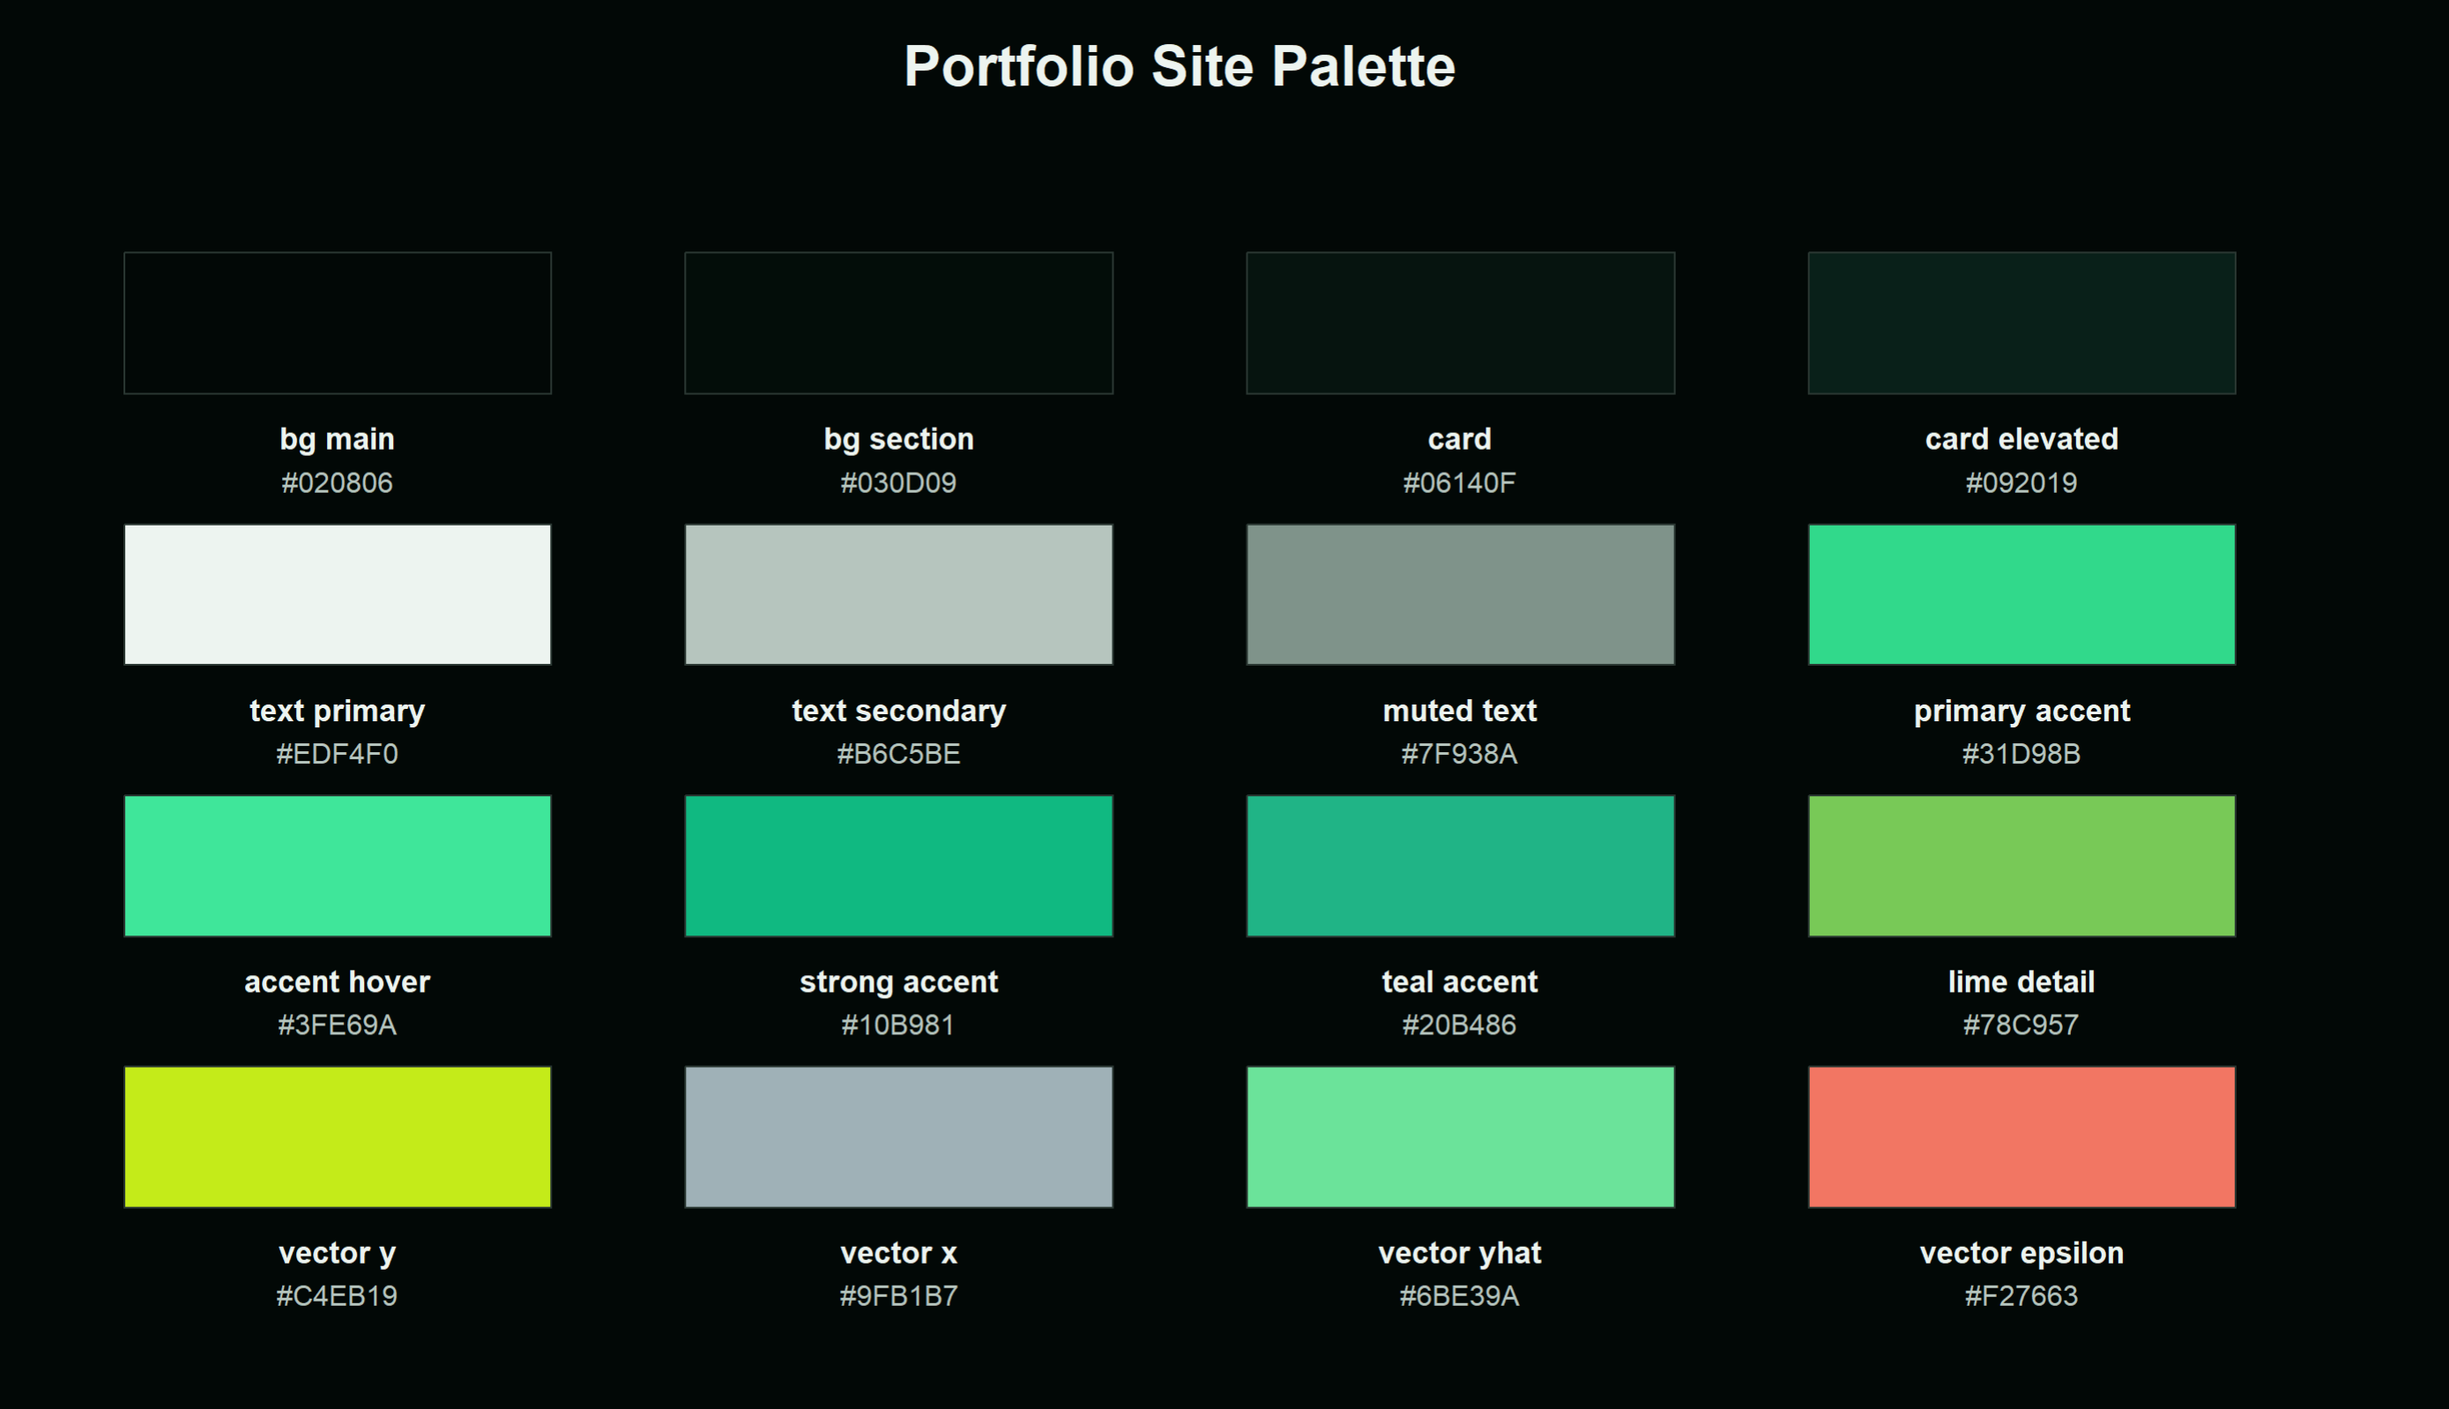
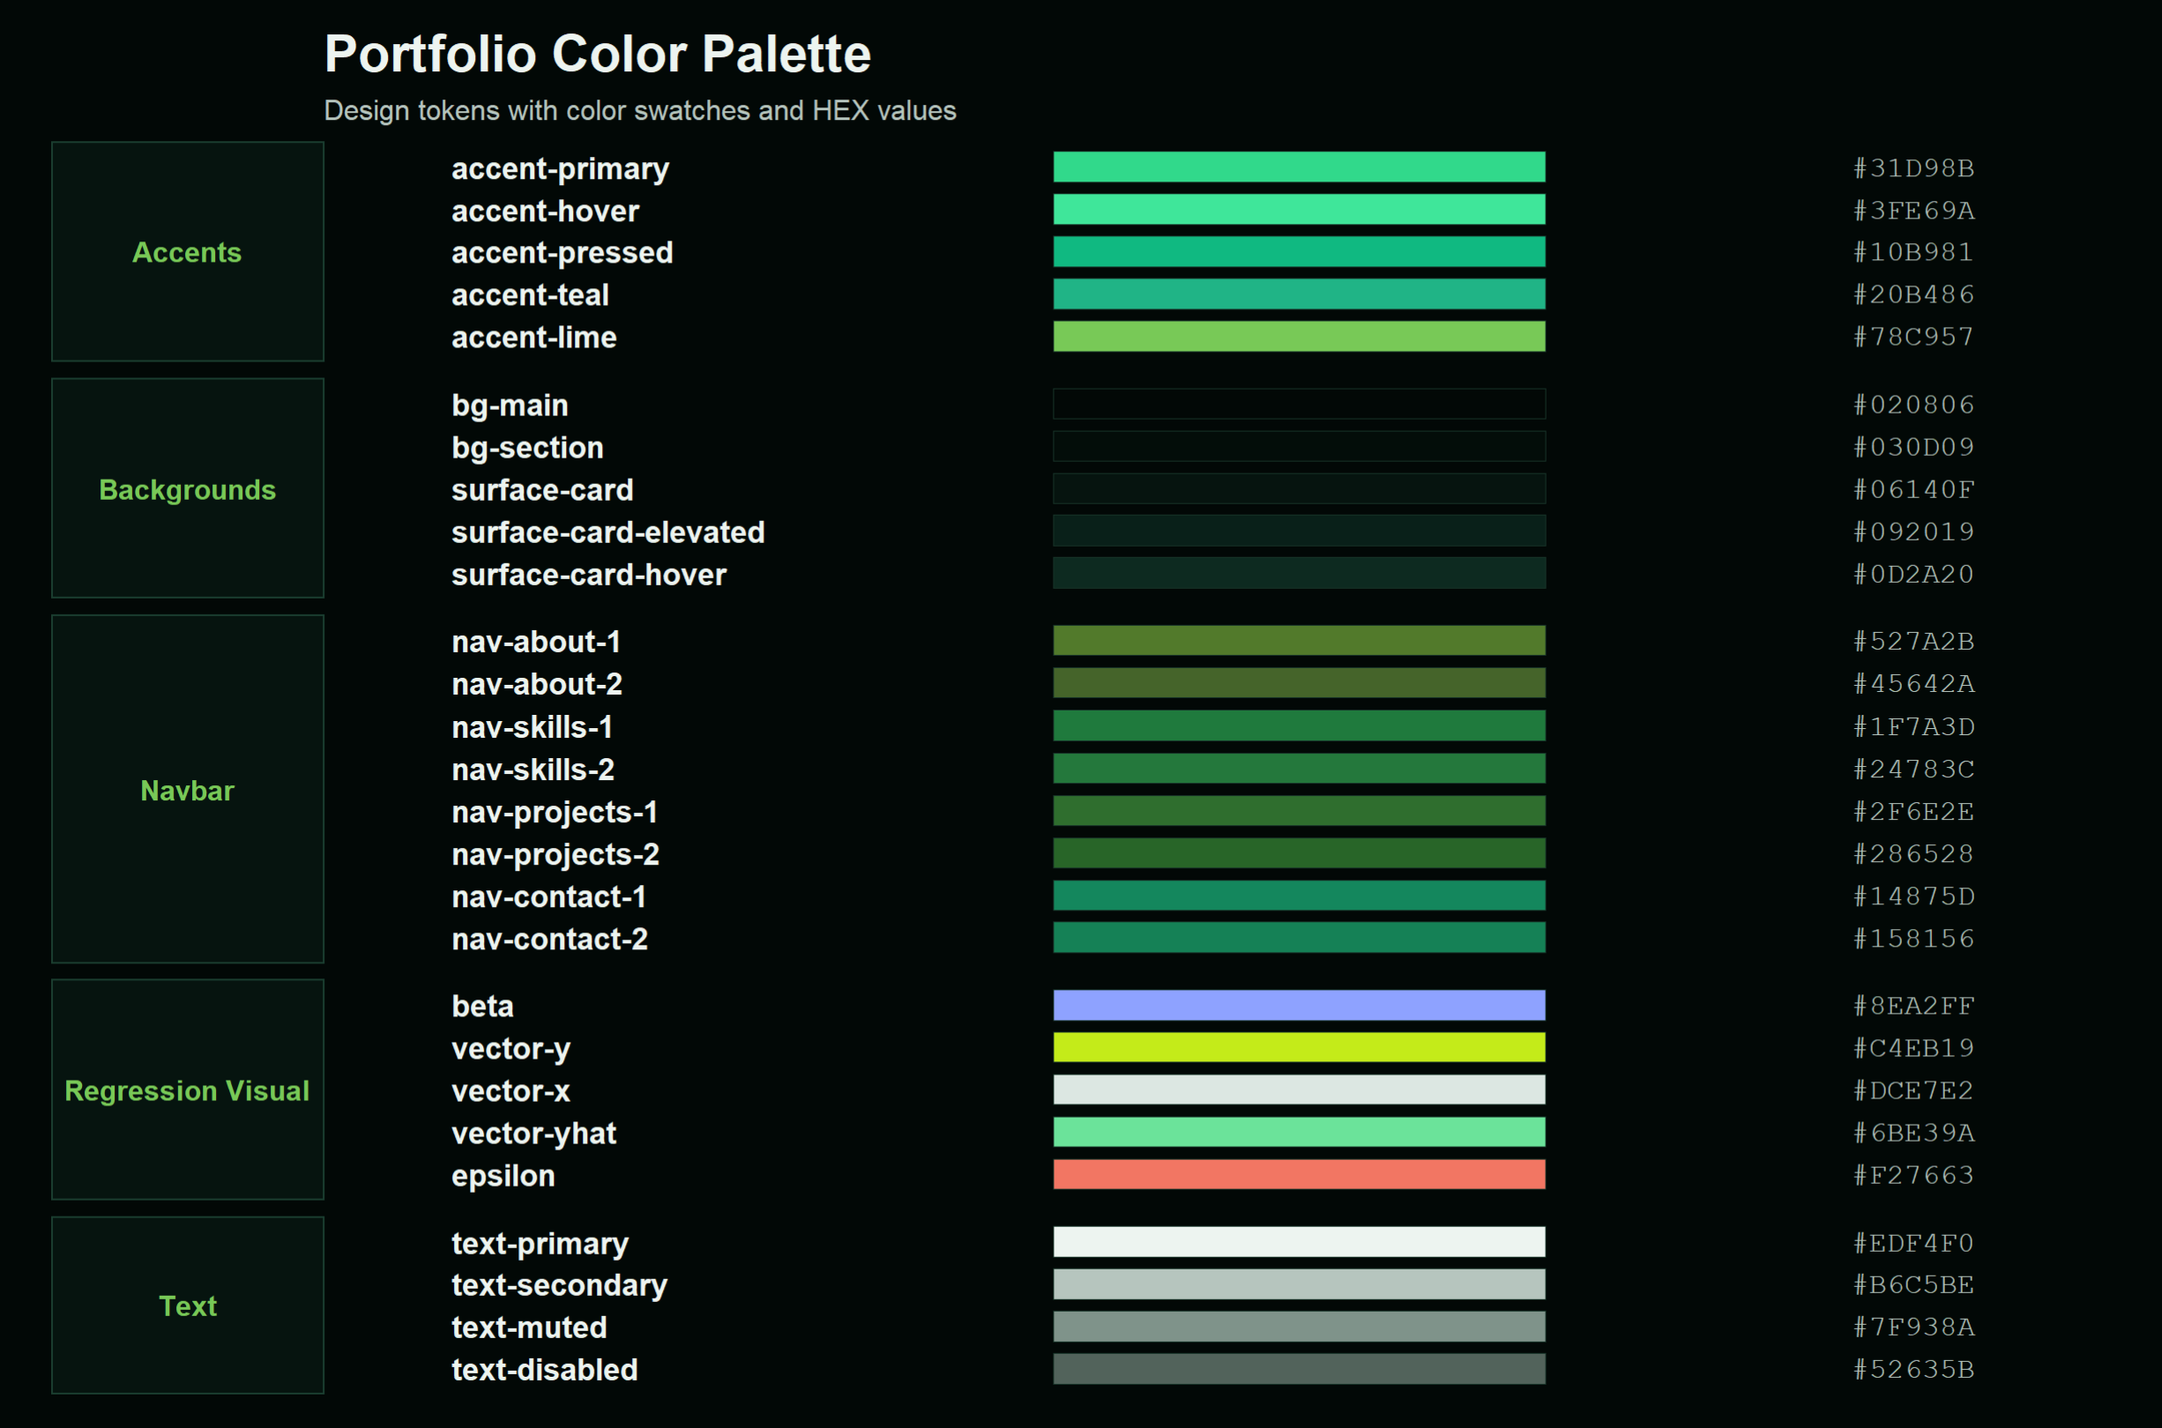
Finish portfolio site

diff --git a/src/components/RegressionProjection/FancyVisualisationSection.jsx b/src/components/RegressionProjection/FancyVisualisationSection.jsx
@@ -5,7 +5,7 @@ export function FancyVisualisationSection() {
     <section id="fancy-visualisation" className="fancy-visualisation-section">
       <div className="mx-auto px-6 sm:px-8">
         <div className="fancy-visualisation-header">
-          <p className="section-label">// FEATURED TECHNICAL DEMO</p>
+          <p className="section-label">// INTERACTIVE REGRESSION GEOMETRY</p>
           <h2>Linear Regression as Projection</h2>
           <p>
             A small interactive demo of a geometric idea at the heart of modern data science.
@@ -27,7 +27,7 @@ export function FancyVisualisationSection() {
             <h3 className="regression-math-title">ΔLGEBRΔIC DERIVΔTION</h3>
 
             <div className="regression-formula">
-              <span className="math-sym-y"><em>y</em></span> = <span className="math-sym-x"><em>X</em></span>{' '}<span className="math-sym-beta">β</span> + <span className="math-sym-eps">ε</span>
+              <span className="math-sym-y"><em>y</em></span><span className="math-sym-x"> = </span><span className="math-sym-x"><em>X</em></span>{' '}<span className="math-sym-beta">β</span> + <span className="math-sym-eps">ε</span>
             </div>
             <ul className="regression-math-list">
               <li><span className="regression-math-symbol math-sym-y"><em>Y</em></span> observed response</li>
@@ -37,28 +37,28 @@ export function FancyVisualisationSection() {
             </ul>
 
             <div className="regression-formula">
-              <span className="math-sym-x">span(<em>X</em>)</span> = &#123;<span className="math-sym-x"><em>x</em><sub>i</sub></span>, <span className="math-sym-x"><em>x</em><sub>j</sub></span>&#125;
+              <span className="math-sym-x">span(<em>X</em>)</span><span className="math-sym-x"> = </span><span className="math-sym-x">&#123;</span><span className="math-sym-x"><em>x</em><sub>i</sub></span><span className="math-sym-x">, </span><span className="math-sym-x"><em>x</em><sub>j</sub></span><span className="math-sym-x">&#125;</span>
             </div>
-            <p className="regression-formula-note">all linear combos of columns of X</p>
+            <p className="regression-formula-note">column space of X</p>
 
             <div className="regression-formula">
-              <span className="regression-betahat math-sym-beta">β<span className="regression-betahat-hat">ˆ</span></span> = (<span className="math-sym-x"><em>X</em></span><sup>T</sup><span className="math-sym-x"><em>X</em></span>)<sup>−1</sup><span className="math-sym-x"><em>X</em></span><sup>T</sup><span className="math-sym-y"><em>y</em></span>
+              <span className="regression-betahat math-sym-beta">β<span className="regression-betahat-hat">ˆ</span></span><span className="math-sym-x"> = (</span><span className="math-sym-x"><em>X</em></span><sup>T</sup><span className="math-sym-x"><em>X</em></span><span className="math-sym-x">)</span><sup className="math-sym-x">−1</sup><span className="math-sym-x"><em>X</em></span><sup>T</sup><span className="math-sym-y"><em>y</em></span>
             </div>
-            <p className="regression-formula-note">least-squares estimate (<em>X</em><sup>T</sup><em>X</em> invertible)</p>
+            <p className="regression-formula-note">LS estimate, XᵀX invertible</p>
 
             <div className="regression-formula">
-              <span className="math-sym-yhat"><em>ŷ</em></span> = <span className="math-sym-x"><em>P</em><sub>X</sub></span>{' '}<span className="math-sym-y"><em>y</em></span>
+              <span className="math-sym-yhat"><em>ŷ</em></span><span className="math-sym-x"> = </span><span className="math-sym-x"><em>P</em><sub>X</sub></span>{' '}<span className="math-sym-y"><em>y</em></span>
             </div>
             <div className="regression-formula">
-              <span className="math-sym-x"><em>P</em><sub>X</sub></span> = <span className="math-sym-x"><em>X</em></span>(<span className="math-sym-x"><em>X</em></span><sup>T</sup><span className="math-sym-x"><em>X</em></span>)<sup>−1</sup><span className="math-sym-x"><em>X</em></span><sup>T</sup>
+              <span className="math-sym-x"><em>P</em><sub>X</sub></span><span className="math-sym-x"> = </span><span className="math-sym-x"><em>X</em></span><span className="math-sym-x">(</span><span className="math-sym-x"><em>X</em></span><sup>T</sup><span className="math-sym-x"><em>X</em></span><span className="math-sym-x">)</span><sup className="math-sym-x">−1</sup><span className="math-sym-x"><em>X</em></span><sup>T</sup>
             </div>
             <p className="regression-formula-note">projection onto span(X)</p>
 
             <div className="regression-formula">
-              <span className="math-sym-eps">ε</span> = <span className="math-sym-y"><em>y</em></span> − <span className="math-sym-yhat"><em>ŷ</em></span>
+              <span className="math-sym-eps">ε</span><span className="math-sym-x"> = </span><span className="math-sym-y"><em>y</em></span><span className="math-sym-x"> − </span><span className="math-sym-yhat"><em>ŷ</em></span>
             </div>
             <div className="regression-formula">
-              <span className="math-sym-x"><em>X</em></span><sup>T</sup><span className="math-sym-eps">ε</span> = 0
+              <span className="math-sym-x"><em>X</em></span><sup>T</sup><span className="math-sym-eps">ε</span><span className="math-sym-x"> = 0</span>
             </div>
             <p className="regression-formula-note">residual is orthogonal to span(X)</p>
           </aside>

diff --git a/src/index.css b/src/index.css
@@ -1012,7 +1012,7 @@ a:not([class]):focus-visible {
   color: rgba(235, 245, 238, 0.88);
   font-size: 1.125rem;
   font-weight: 500;
-  max-width: none;
+  max-width: 70%;
   margin-top: 1.5rem;
   padding-left: 1rem;
   border-left: 2px solid rgba(52, 211, 153, 0.65);
@@ -1152,31 +1152,37 @@ a:not([class]):focus-visible {
   padding: 1.25rem 1.5rem;
   background: linear-gradient(to bottom, rgba(2, 6, 4, 0.95), transparent);
   pointer-events: none;
+  display: flex;
+  align-items: center;
+  gap: 0.75rem;
 }
 
 .regression-card-header p {
   margin: 0;
-  font-size: var(--fs-eyebrow);
+  font-size: 0.8125rem;
   font-family: var(--font-mono);
   color: var(--accent-primary);
   font-weight: 600;
   letter-spacing: var(--tracking-eyebrow);
+  flex-shrink: 0;
+  white-space: nowrap;
 }
 
-/* Formula overlay */
+/* Formula pill — centered absolutely on desktop, inline on mobile */
 .regression-equation {
   position: absolute;
   left: 50%;
-  top: 2.6rem;
+  top: 1.1rem;
   transform: translateX(-50%);
   z-index: 20;
   pointer-events: none;
+  flex-shrink: 0;
   display: flex;
   gap: 0.4rem;
   align-items: baseline;
   padding: 0.45rem 1rem;
   border-radius: 999px;
-  background: rgba(2, 6, 23, 0.78);
+  background: #06140F;
   border: 1px solid rgba(52, 211, 153, 0.22);
   backdrop-filter: blur(14px);
 }
@@ -1238,8 +1244,13 @@ a:not([class]):focus-visible {
   }
 
   .regression-equation {
-    top: 2.2rem;
-    padding: 0.25rem 0.6rem;
+    position: static;
+    transform: none;
+    top: auto;
+    left: auto;
+    margin-left: auto;
+    margin-right: auto;
+    padding: 0.22rem 0.6rem;
   }
 
   .regression-equation span {
@@ -1251,7 +1262,7 @@ a:not([class]):focus-visible {
   }
 
   .regression-card-header p {
-    font-size: 0.8rem;
+    font-size: 0.875rem;
   }
 
   .regression-card-footer {
@@ -1315,6 +1326,7 @@ a:not([class]):focus-visible {
   text-transform: uppercase;
   color: var(--accent-primary);
   margin-bottom: 0.35rem;
+  text-align: center;
 }
 
 .regression-formula {
@@ -1339,11 +1351,17 @@ a:not([class]):focus-visible {
 }
 
 .regression-formula-note {
-  font-family: var(--font-sans);
-  font-size: var(--fs-small);
+  font-family: var(--font-mono);
+  font-size: 0.78rem;
   color: var(--text-secondary);
-  margin: 0 0 0.15rem 0.2rem;
-  line-height: 1.45;
+  margin: 0.1rem 0 0.5rem 0.5rem;
+  line-height: 1.4;
+}
+
+.regression-formula-note::before {
+  content: '↳ ';
+  color: var(--accent-teal);
+  opacity: 0.7;
 }
 
 /* Spacing around sup/sub so XᵀX, Pₓ, etc. don't visually collapse */
@@ -1357,7 +1375,7 @@ a:not([class]):focus-visible {
 .regression-math-list {
   list-style: none;
   padding: 0;
-  margin: 0.05rem 0 0.3rem 0;
+  margin: 0.05rem 0 0.3rem 0.75rem;
   display: flex;
   flex-direction: column;
   gap: 0.15rem;
@@ -1389,13 +1407,13 @@ a:not([class]):focus-visible {
 /* ===== LEGEND ===== */
 .regression-legend {
   position: absolute;
-  top: 3.5rem;
+  top: 0.75rem;
   right: 0.75rem;
   z-index: 20;
   display: flex;
   flex-direction: column;
   gap: 0.3rem;
-  background: rgba(2, 6, 4, 0.72);
+  background: #06140F;
   border: 1px solid rgba(52, 211, 153, 0.16);
   border-radius: 10px;
   padding: 0.5rem 0.65rem;
@@ -1551,16 +1569,22 @@ a:not([class]):focus-visible {
   }
 }
 
+/* hidden on desktop; shown via JS on mobile */
+.regression-legend-toggle {
+  display: none;
+}
+
 @media (max-width: 768px) {
   .regression-legend {
-    top: 3rem;
-    right: 0.5rem;
+    top: 3.25rem;
+    right: 0.75rem;
     padding: 0.35rem 0.55rem;
-    gap: 0.25rem;
+    gap: 0.2rem;
   }
 
   .regression-legend-item {
-    font-size: 0.8rem;
+    font-size: 0.75rem;
+    gap: 0.35rem;
   }
 
   .regression-legend-swatch {
@@ -1568,16 +1592,75 @@ a:not([class]):focus-visible {
     height: 8px;
   }
 
+  .regression-legend-toggle {
+    display: flex;
+    align-items: center;
+    justify-content: center;
+    position: static;
+    flex-shrink: 0;
+    pointer-events: auto;
+    width: 26px;
+    height: 26px;
+    border-radius: 50%;
+    background: rgba(49, 217, 139, 0.04);
+    border: 1px solid rgba(49, 217, 139, 0.45);
+    color: rgba(107, 227, 154, 0.8);
+    font-size: 0.72rem;
+    line-height: 1;
+    cursor: pointer;
+    padding: 0;
+    outline: none;
+    backdrop-filter: blur(8px);
+    transition: background 0.2s ease, border-color 0.2s ease, color 0.2s ease;
+  }
+
+  .regression-legend-toggle:hover {
+    background: rgba(49, 217, 139, 0.1);
+    border-color: rgba(49, 217, 139, 0.7);
+    color: rgba(107, 227, 154, 1);
+  }
+
+  .regression-legend-toggle[aria-expanded="true"] {
+    background: rgba(49, 217, 139, 0.15);
+    border-color: rgba(49, 217, 139, 0.75);
+    color: rgba(107, 227, 154, 1);
+    box-shadow: 0 0 8px rgba(49, 217, 139, 0.18);
+  }
+
+  .regression-legend-toggle:focus-visible {
+    border-color: rgba(49, 217, 139, 0.9);
+    box-shadow: 0 0 0 2px rgba(49, 217, 139, 0.2);
+  }
+
   .regression-focus-button {
-    min-height: 40px;
-    font-size: 0.8rem;
-    padding: 0.4rem 0.7rem;
+    min-height: 28px;
+    font-size: 0.72rem;
+    padding: 0.2rem 0.5rem;
   }
 }
 
 @media (max-width: 480px) {
   .regression-drag-hint {
     font-size: 0.58rem;
+  }
+
+  .regression-equation {
+    padding: 0.18rem 0.5rem;
+    gap: 0.3rem;
+  }
+
+  .regression-equation span {
+    font-size: 0.72rem;
+  }
+
+  .regression-card-footer {
+    bottom: 0.5rem;
+    gap: 0.4rem;
+  }
+
+  .regression-tag {
+    font-size: 0.68rem;
+    padding: 0.16rem 0.42rem;
   }
 }
 

diff --git a/src/components/RegressionProjection/RegressionProjectionCard.jsx b/src/components/RegressionProjection/RegressionProjectionCard.jsx
@@ -1,4 +1,4 @@
-import { useState, useCallback, Suspense, useMemo } from 'react';
+import { useState, useCallback, useEffect, Suspense, useMemo } from 'react';
 import * as THREE from 'three';
 import { RegressionProjectionScene } from './RegressionProjectionScene';
 import { CanvasErrorBoundary } from './CanvasErrorBoundary';
@@ -18,6 +18,11 @@ const LEGEND_ITEMS = [
 export function RegressionProjectionCard() {
   const isMobileView = useIsMobile();
   const [focusTarget, setFocusTarget] = useState(null);
+  const [legendOpen, setLegendOpen] = useState(false);
+
+  useEffect(() => {
+    if (!isMobileView) setLegendOpen(false);
+  }, [isMobileView]);
   const [x1State, setX1State] = useState(DEFAULT_X1);
   const [x2State, setX2State] = useState(DEFAULT_X2);
   const [yState, setYState] = useState(DEFAULT_Y);
@@ -61,16 +66,36 @@ export function RegressionProjectionCard() {
     >
       <div className="regression-card-header">
         <p>// residual orthogonality</p>
+        <div className="regression-equation">
+          <span className="white">y</span>
+          <span className="gray">=</span>
+          <span className="green">ŷ</span>
+          <span className="gray">+</span>
+          <span className="orange">ε</span>
+        </div>
+        {isMobileView && (
+          <button
+            type="button"
+            className="regression-legend-toggle"
+            onClick={() => setLegendOpen(prev => !prev)}
+            aria-label={legendOpen ? 'Hide vector legend' : 'Show vector legend'}
+            aria-expanded={legendOpen}
+          >
+            ℹ
+          </button>
+        )}
       </div>
 
-      <div className="regression-legend" aria-label="Scene legend">
-        {LEGEND_ITEMS.map((item, i) => (
-          <div key={i} className="regression-legend-item">
-            <span className={`regression-legend-swatch ${item.cls}`} />
-            <span><span className={item.symCls}>{item.sym}</span>{' '}{item.desc}</span>
-          </div>
-        ))}
-      </div>
+      {(!isMobileView || legendOpen) && (
+        <div className="regression-legend" aria-label="Scene legend">
+          {LEGEND_ITEMS.map((item, i) => (
+            <div key={i} className="regression-legend-item">
+              <span className={`regression-legend-swatch ${item.cls}`} />
+              <span><span className={item.symCls}>{item.sym}</span>{' '}{item.desc}</span>
+            </div>
+          ))}
+        </div>
+      )}
 
       <CanvasErrorBoundary>
         <Suspense fallback={
@@ -90,14 +115,6 @@ export function RegressionProjectionCard() {
           />
         </Suspense>
       </CanvasErrorBoundary>
-
-      <div className="regression-equation">
-        <span className="white">y</span>
-        <span className="gray">=</span>
-        <span className="green">ŷ</span>
-        <span className="gray">+</span>
-        <span className="orange">ε</span>
-      </div>
 
       <div className="regression-card-footer">
         {[

diff --git a/src/data/awards.js b/src/data/awards.js
@@ -10,7 +10,7 @@ export const awards = [
       "Worked with the team on connecting the software side of the project to an electronic sound-output component.",
       "Participated in building and presenting a working demo under hackathon time pressure.",
     ],
-    link: "TEAM_REPOSITORY_LINK_HERE",
+    link: "https://github.com/Zer0Hiro/JAM-web-edition",
     buttonText: "View Team Repository",
     tags: [
       "Hackathon",
